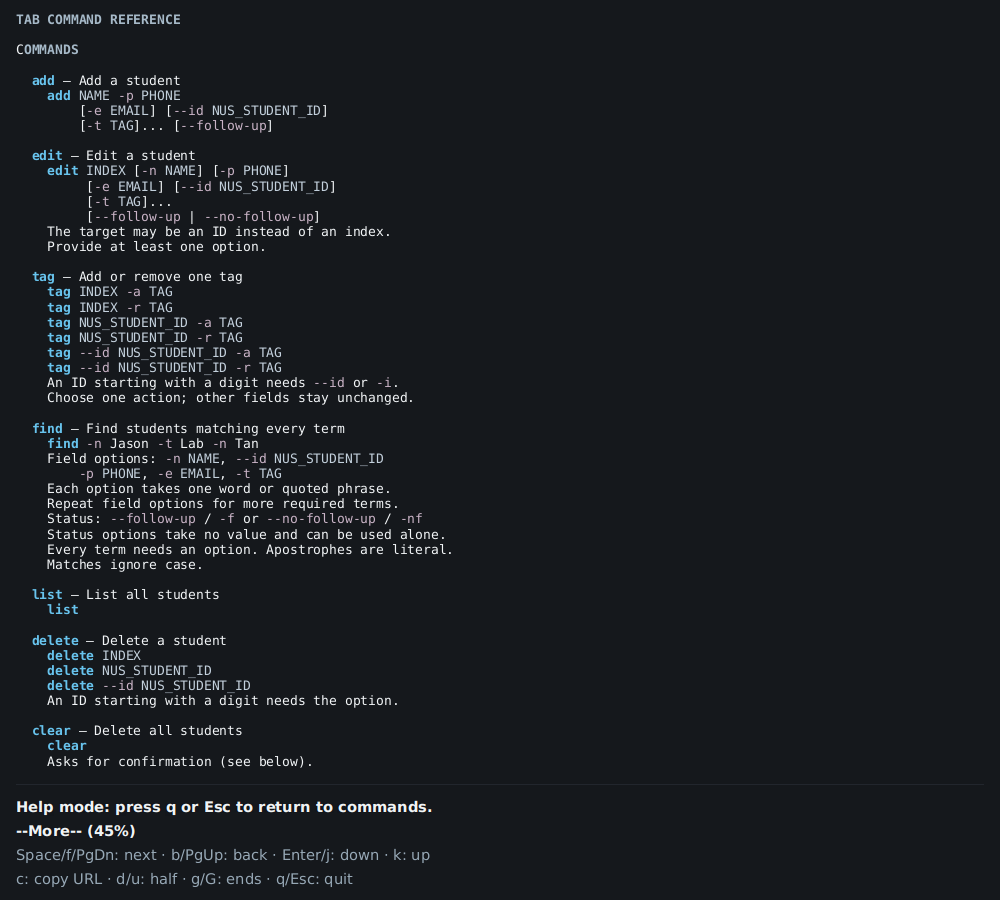
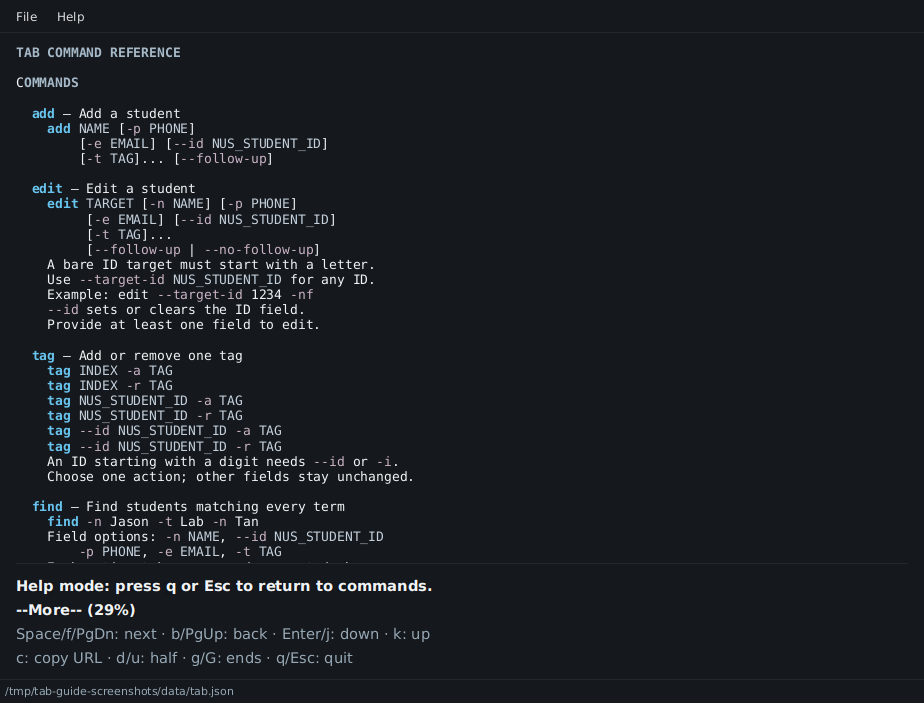
Address User Guide review feedback
The guide screenshots and inconsistent reference terms make it harder
to relate the instructions to the application.

Let's refresh the launch and help captures, restore the summary
illustration, and align the reference terms and setup guidance.

Changed region(s): [[0.0, 0.0, 0.4545, 1.0]]

diff --git a/docs/UserGuide.md b/docs/UserGuide.md
@@ -6,7 +6,7 @@
 
 # TAB User Guide
 
-TAB is a **desktop application for teaching assistants to manage student records through typed commands**. You can keep contact details, group students with tags and track who needs follow-up, while viewing everything in a graphical window.
+TAB is a **desktop application for teaching assistants to manage student records through typed commands**. You can keep contact details, group students with tags and track who needs follow-up in one graphical window.
 
 <!-- Adapted from the inherited AddressBook-Level3 User Guide by SE-EDU. -->
 <!-- https://github.com/NUS-CS2103-AY2627-S1/tp/blob/master/docs/UserGuide.md -->
@@ -14,9 +14,12 @@ TAB is a **desktop application for teaching assistants to manage student records
 
 ## Quick start
 
-1. Install Java `25` or later, using an x64 JDK without bundled JavaFX on Windows or Linux.
+1. Install Java `25`, using an x64 JDK without bundled JavaFX on Windows or Linux.
+
    On a Mac, use the JDK+FX version in the
    [course setup guide](https://se-education.org/guides/tutorials/javaInstallationMac.html).
+   If you choose a plain JDK on Apple Silicon, use an x64 JDK under Rosetta because TAB's bundled JavaFX targets Intel Macs.
+   The course's native JDK+FX setup does not need Rosetta.
 
 1. Download `tab.jar` from the [releases page](https://github.com/AY2627S1-CS2103T-T16-1/tp/releases)
    and place it in a writable folder, which will be TAB's home folder.
@@ -24,7 +27,7 @@ TAB is a **desktop application for teaching assistants to manage student records
 1. Open a terminal in that folder and run `java -jar tab.jar`.
    TAB opens with six sample students when no saved data exists.
 
-   ![TAB showing student records and the cohort summary](images/Ui.png)
+   ![TAB showing student records and the student summary](images/Ui.png)
 
 1. Type a command in the command box and press `Enter`.
    Try `list` to show every student, then `help` to read the built-in command reference.
@@ -34,7 +37,6 @@ TAB is a **desktop application for teaching assistants to manage student records
 
 1. Refer to [Features](#features) for command details or the [Command summary](#command-summary) for a quick reference.
 
-If you use a plain JDK on an Apple Silicon Mac, choose an x64 JDK and run it under Rosetta because TAB's bundled JavaFX libraries target Intel Macs. The course's native JDK+FX setup does not need Rosetta.
 
 ## General reference
 
@@ -49,7 +51,7 @@ TAB follows common CLI conventions for options and quoted values, using short op
   For example, `add John Doe [-p PHONE]` allows `add John Doe`.
 
 * `...` allows repetition.<br>
-  For example, `[-t TAG]...` allows `-t T1 -t Lab3`.
+  For example, `[-t TAG]...` allows `-t T1 -t "Lab 3"`.
 
 * `|` separates alternatives.<br>
   For example, `[--follow-up | --no-follow-up]` allows either option or neither.
@@ -60,8 +62,8 @@ TAB follows common CLI conventions for options and quoted values, using short op
 * Put values containing spaces or beginning with a hyphen in double quotes.<br>
   For example, `tag 1 -a "Lab 3"` adds one tag containing a space.
 
-* Command words ignore case, while option names are case-sensitive.<br>
-  For example, `LIST` works, but `-P` cannot replace `-p`.
+* Command words ignore case, but option names are case-sensitive.<br>
+  For example, `LIST` works, but `-P` does not replace `-p`.
 
 The built-in `help` reference covers additional syntax, including `OPTION=VALUE` and escaping quotation marks. TAB suggests corrections for mistyped commands or capitalized options, but you must correct and resubmit them.
 
@@ -72,22 +74,22 @@ The field options below are used by `add`, `edit` and `find`.
 | Field | Options | Accepted values |
 | --- | --- | --- |
 | Name | `add`: first argument, no flag needed<br> `edit`, `find`: `-n` or `--name` | At least one letter or number in any script, with punctuation allowed |
-| Phone | `-p`, `--phone` | At least three digits, with formatting, extensions and notes allowed |
+| Phone | `-p`, `--phone` | At least three digits, with formatting  (extensions and notes allowed) |
 | Email | `-e`, `--email` | ASCII address such as `sean.o'brien@example.com`, up to 254 characters |
 | NUS Student ID | `--id`, `-i` | 1 to 32 ASCII letters or digits, stored in uppercase |
-| Tag | `-t`, `--tag` | Non-empty text, including spaces and symbols |
-| Follow-up | `--follow-up`, `-f` | No value, marks the student as needing follow-up |
+| Tag | `-t`, `--tag` | At least one letter or number in any script |
+| Follow-up | `--follow-up`, `-f`<br> `--no-follow-up`, `-nf` | Accepts no value |
 
 * Spaces at the ends of values are removed, and repeated spaces become one space.
 * Tags differing only in case or extra spaces are treated as the same tag.
-* `Needs follow-up` is reserved for the flag, while similar tags such as `Needs follow up` are saved with a warning and do not set the flag.
+* The tag `Needs follow-up` is reserved for the follow-up flag, while similar tags such as `Needs follow up` are saved with a warning and do not set the flag.
 * NUS Student IDs must be unique across the book, ignoring case.
-* Matching names, phones or emails produce possible-duplicate warnings after saving an addition or edit.
-* Users are encouraged to exercise their own discretion regarding duplicate warnings. You can ignore them if you know that the records describe different students.
+* After you `add` or `edit` a student, a matching name, phone or email raises a possible-duplicate warning.
+* For duplicate warnings, you can exercise your own judgement and ignore them if you know that the records describe different students.
 
 ### Choosing a student
 
-`edit`, `tag` and `delete` accept one student target. This can be specified by the displayed index or NUS student ID.
+`edit`, `tag` and `delete` accept one student target. This can be specified by the displayed index or NUS Student ID.
 
 | Target | Meaning | Example |
 | --- | --- | --- |
@@ -95,29 +97,34 @@ The field options below are used by `add`, `edit` and `find`.
 | NUS Student ID | ID beginning with a letter, matched across the whole book regardless of case | `edit A01234567X -p 91234567` |
 | Explicit ID option | Any ID, including one beginning with a digit | `edit --target-id A01234567X -p 91234567` |
 
-* Targeting by index uses currently displayed index. <br>
+*
   For example: after `find -n Charlotte`, Charlotte is displayed as student `1`, so `delete 1` would delete Charlotte. Subsequently, running `list` will then show the whole book, where index `1` may refer to someone else.
 
 * Selecting a student by ID requires the complete ID. <br>
   For example `A0123` cannot target the student with ID `A01234567X`.
 
-* Use `--target-id ID` with `edit` to select an ID explicitly, including one beginning with a digit.
+* For `edit`, as `--id` is used to editing the student's ID, `--target-id` is used for explictly selecting the student by NUS Student ID (including one beginning with a digit) instead.
 
-* With `edit`, `--id` changes the student's ID, so `--target-id` is used for selecting students instead.
+For example:
+1. Run `add Numeric Example --id 1234` to add a student with ID `1234`.
+2. Run `edit --target-id 1234 -p 91234567` to update the student.
+3. Run `edit --target-id 1234 --id E7654321` to change their ID.
 
-For example, first run `add Numeric Example --id 1234`, then `edit --target-id 1234 -p 91234567` to update that student. To change their ID, run `edit --target-id 1234 --id E7654321`.
-
-**TIP**: `delete`, `edit` and `tag` keep the currently active search and filter, so students may disappear when they no longer match. To prevent errors, you may want to check the displayed indices after each change, or use NUS Student ID as the target to avoid selecting a different student.
+**TIP**: `delete`, `edit` and `tag` keep the currently active search and filter, so students may disappear when they no longer match. To avoid acting on the wrong student, you may want to check the displayed indices after each change, or use NUS Student ID as the target.
 
 ## Features
 
 ### Viewing help with `help`
 
-Opens a command reference inside TAB, showing syntax, option aliases and quoting rules.
+Opens a reference for the commands inside TAB. Shows syntax, option aliases and quoting rules.
 
-Format: `help`
+**Format**: `help`
 
 You can also open it with `F1` or by clicking the Help menu.
+
+![TAB help showing current command syntax and navigation keys](images/helpMessage.png)
+
+The footer shows your reading progress and navigation keys, including `q` or `Esc` to return to commands.
 
 | Key | Action in help |
 | --- | --- |
@@ -140,7 +147,7 @@ Adds a student to the student book.
 
 * Only the name is required.
 * Students start without a follow-up flag unless you supply `--follow-up`.
-* If a search hides the new student, TAB shows all students so you can see the addition.
+* If a search would hide the new student, TAB shows all students so the addition is visible.
 
 Examples
 
@@ -178,7 +185,7 @@ Adds or removes **one** tag for an existing student selected by [displayed index
 **Format** `tag TARGET -a TAG` or `tag TARGET -r TAG`
 
 * You may use `--add` in place of `-a`, or `--remove` in place of `-r`.
-* Other tags and details will remain unchanged.
+* Other tags and details remains unchanged.
 
 Examples
 
@@ -194,7 +201,7 @@ Searches the whole book using the [student field options](#student-fields).
 
 * Supply at least one field term or follow-up option.
 * Each term needs a field option, such as `-n` for names or `-e` for emails.
-* The matching ignores case and accepts partial values <br>
+* The matching ignores case and accepts partial values. <br>
   For example,  `john` matches `Johnathan`.
 * **Every condition must match**, including repeated options for the same field (an `AND` search).
 * To search an entire phrase, use double quotes.
@@ -214,9 +221,9 @@ Examples
 
 ### Deleting a student with `delete`
 
-Deletes one student immediately, with no undo command. The student to delete is selected by [displayed index or NUS Student ID](#choosing-a-student).
+Deletes one student immediately with no undo command. The student to delete is selected by [displayed index or NUS Student ID](#choosing-a-student).
 
-**Format** `delete INDEX` or `delete NUS_STUDENT_ID` or `delete --id NUS_STUDENT_ID`
+**Format** `delete TARGET`
 
 Examples
 
@@ -246,7 +253,11 @@ Closes TAB.
 
 ### Reading and navigating the window
 
-* The left panel summarizes the **displayed students**, including their total, follow-up count and tag counts.
+![Student summary beside cards showing a follow-up flag and hidden tags](images/cardSummary.png)
+
+In this example, the student summary counts three students and one follow-up flag. The first card shows the follow-up marker beside its name, while `2 more...` indicates hidden tags.
+
+* The **student summary** on the left shows the displayed students' total, follow-up count and tag counts.
 * Tags differing only in case share a summary row.
 * A flagged student has a `Needs follow-up` marker on their card.
 * Hover over shortened details or a hidden-tag count to read the full text.
@@ -254,14 +265,16 @@ Closes TAB.
 | Key | Action outside help |
 | --- | --- |
 | `Up`, `Down` in the command box | Access previously submitted commands |
-| `Tab`, `Shift`+`Tab` | Move forward or backward through the command box, student list, tag summary and visible reply |
+| `Tab`, `Shift`+`Tab` | Move forward or backward through the command box, student list, tag list in the student summary and visible reply |
 | Arrow keys, `Page Up`, `Page Down`, `Home`, `End` | Navigate the focused list or reply |
 
 Command history lasts until TAB closes.
 
 ### Saving and editing data
 
-TAB automatically saves student changes in `data/tab.json` under its home folder. The status bar shows the data file's path, and a failed save restores the records from before the command.
+TAB automatically saves student changes in `data/tab.json` under its home folder. The data file's path is shown in the status bar.
+
+If a save fails, the records from before the command are restored.
 
 Use one TAB window per data file when editing. If another window has saved changes, restart the older window to load them before retrying.
 
@@ -291,13 +304,13 @@ If the error names `data/.tab.json.lock`, close all TAB windows and restore writ
 
 | Action | Format or example |
 | --- | --- |
-| Add | `add NAME [-p PHONE] [-e EMAIL] [--id ID] [-t TAG]... [--follow-up]` |
+| Add | `add NAME [-p PHONE] [-e EMAIL] [--id NUS_STUDENT_ID] [-t TAG]... [--follow-up]` |
 | List | `list` |
-| Edit | `edit TARGET [-n NAME] [-p PHONE] [-e EMAIL] [--id ID] [-t TAG]... [--follow-up \| --no-follow-up]` |
+| Edit | `edit TARGET [-n NAME] [-p PHONE] [-e EMAIL] [--id NUS_STUDENT_ID] [-t TAG]... [--follow-up \| --no-follow-up]` |
 | Add a tag | `tag TARGET -a TAG` |
 | Remove a tag | `tag TARGET -r TAG` |
 | Find | `find [FIELD_OPTION TERM]... [-f \| -nf]`, such as `find -n Alex -t T1` |
-| Delete | `delete TARGET`, with `--id ID` for digit-leading IDs |
+| Delete | `delete TARGET`, with `--id NUS_STUDENT_ID` for digit-leading IDs |
 | Clear | `clear`, then confirm or cancel |
 | Help | `help`, then `q` or `Esc` to return |
 | Exit | `exit` |
